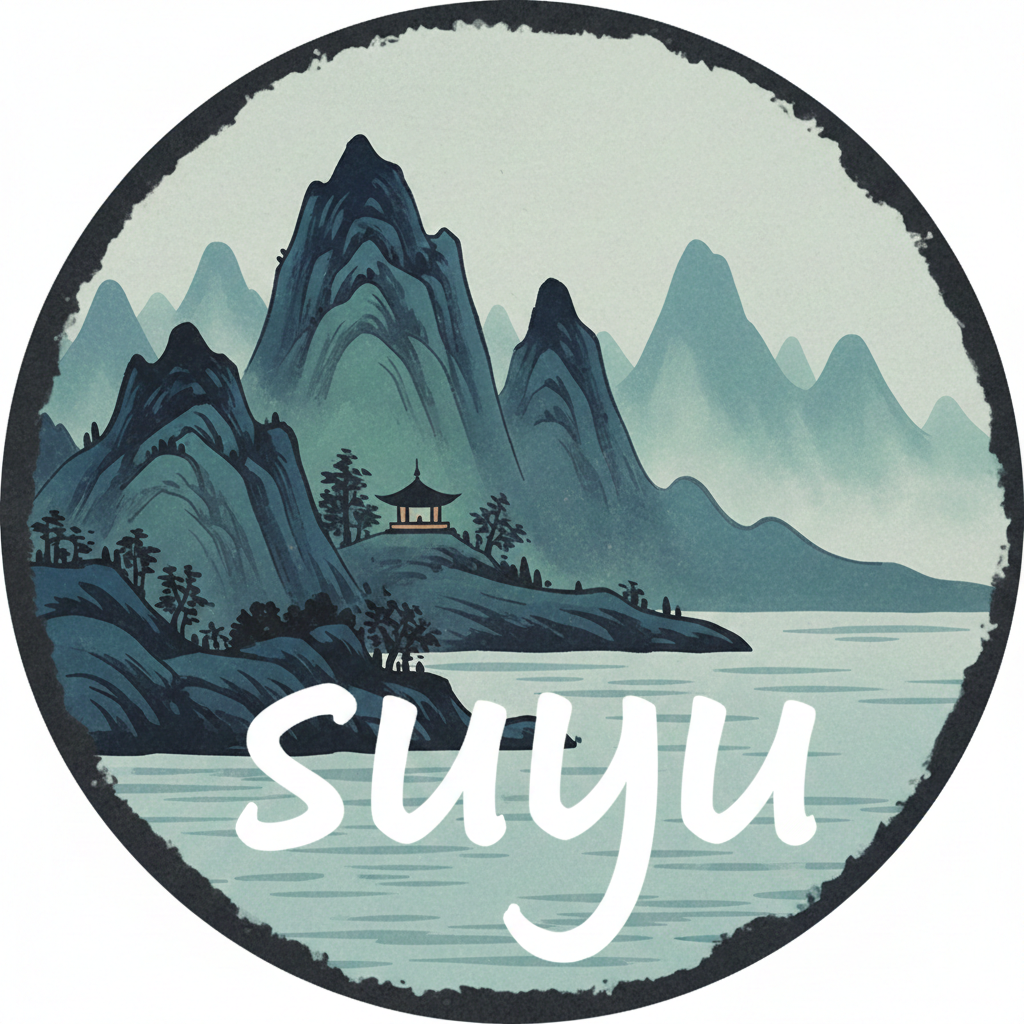
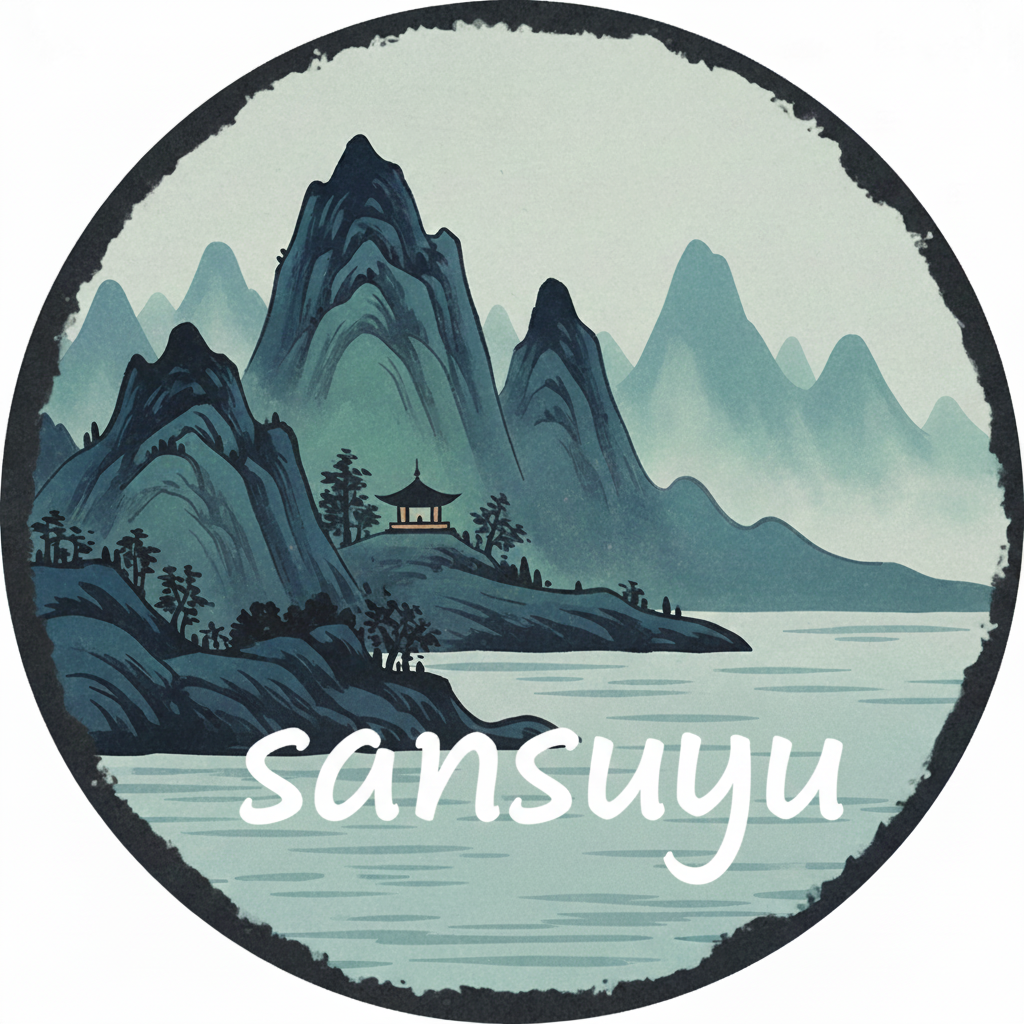
Rename sansuyu as suyu is taken by nintendo

Changed region(s): [[0.2188, 0.6562, 0.8438, 0.9375]]

diff --git a/src/app/help.rs b/src/app/help.rs
@@ -103,7 +103,7 @@ yellow = "#e0af68""##);
                 ui.separator();
                 ui.label("• Diagrams are saved as JSON files (.json)");
                 ui.label("• Export to SVG for use in other applications");
-                ui.label("• Settings are loaded from ~/.config/suyu.toml (or settings.toml in current directory)");
+                ui.label("• Settings are loaded from ~/.config/sansuyu.toml (or settings.toml in current directory)");
                 ui.label("• Use ⌘O, ⌘S, ⌘⇧S for file dialogs to choose save/load locations");
 
                 ui.add_space(20.0);

diff --git a/src/app/mod.rs b/src/app/mod.rs
@@ -203,7 +203,7 @@ pub struct DiagramApp {
 impl DiagramApp {
     fn config_path() -> Option<String> {
         if let Some(home) = std::env::var_os("HOME") {
-            let path = std::path::PathBuf::from(home).join(".config").join("suyu.toml");
+            let path = std::path::PathBuf::from(home).join(".config").join("sansuyu.toml");
             if path.exists() {
                 return Some(path.display().to_string());
             }

diff --git a/src/main.rs b/src/main.rs
@@ -10,7 +10,7 @@ fn main() -> eframe::Result<()> {
         ..Default::default()
     };
     eframe::run_native(
-        "Suyu",
+        "SanSuYu",
         native_options,
         Box::new(|cc| Ok(Box::new(app::DiagramApp::new(cc)))),
     )

diff --git a/README.md b/README.md
@@ -1,7 +1,7 @@
-# Suyu
+# sansuyu
 
 A diagramming tool written in Rust.
-Supports exporting to SVG.
+Supports exporting to SVG (not for round-trip editing).
 
 ## Installation
 
@@ -9,17 +9,17 @@ Supports exporting to SVG.
 
 ```bash
 git clone <repository-url>
-cd suyu
+cd sansuyu
 cargo build --release
 ```
 
-The binary will be at `target/release/suyu`.
+The binary will be at `target/release/sansuyu`.
 
 ## Configuration
 
-Suyu looks for a configuration file in `~/.config/suyu.toml`
+sansuyu looks for a configuration file in `~/.config/sansuyu.toml`
 
-### Example `suyu.toml`
+### Example `sansuyu.toml`
 
 ```toml
 snap_to_grid = false
@@ -66,7 +66,7 @@ purple = "#bb9af7"
 
 ### Command Palette
 
-The command palette is the primary way to access all features in Suyu.
+The command palette is the primary way to access all features in sansuyu.
 It provides fuzzy search over all available commands.
 The command palette can be opened by pressing `Space`
 
@@ -119,14 +119,14 @@ The command palette can be opened by pressing `Space`
 To use custom fonts:
 
 1. Add `font_directory` to your config file pointing to a folder with `.ttf` or `.otf` files
-2. Restart Suyu or use `Settings: Reload` from the command palette
+2. Restart sansuyu or use `Settings: Reload` from the command palette
 3. Select the custom font via `Format: Set Custom Font...` command
 
 ### File Formats
 
 - **Diagrams**: Saved as JSON files (`.json`)
 - **Export**: SVG format for use in other applications
-- **Settings**: TOML format (`suyu.toml`)
+- **Settings**: TOML format (`sansuyu.toml`)
 
 ## Tips
 
